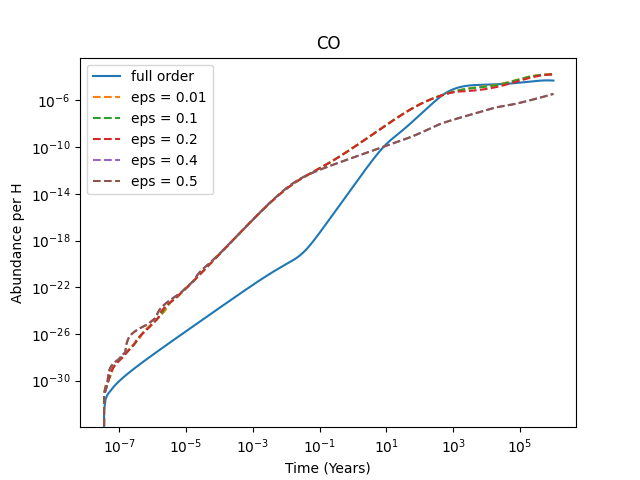
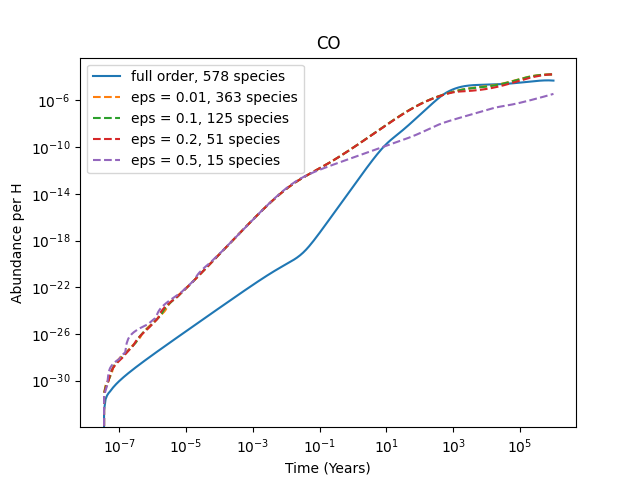
plotting

diff --git a/kida_drg/kida_reduced_solved/plots.py b/kida_drg/kida_reduced_solved/plots.py
@@ -4,7 +4,7 @@ from pathlib import Path
 
 YEAR = 3600 * 24 * 365.25
 folder_path = "/oden/cheng/Downloads/code/DRG/KIDApy_DRG/kida_drg/kida_reduced_solved"
-eps = ['0p01','0p1', '0p2', '0p5', '0p5']
+eps = ['0p01','0p1', '0p2','0p5']
 
 species = ["CO", "C+", "O+", "O"]
 
@@ -21,7 +21,7 @@ for s in species:
     plt.loglog()
     plt.xlabel("Time (Years)")
     plt.ylabel('Abundance per H')
-    plt.legend(["full order", "eps = 0.01", "eps = 0.1", "eps = 0.2", "eps = 0.4", "eps = 0.5"])
+    plt.legend(["full order, 578 species", "eps = 0.01, 363 species", "eps = 0.1, 125 species", "eps = 0.2, 51 species", "eps = 0.5, 15 species"])
     plt.title(f'{s}')
     folder = Path("/oden/cheng/Downloads/code/DRG/KIDApy_DRG/kida_drg/kida_reduced_solved")
     file = folder/f'{s} Concentration Comparison'

diff --git a/nelson_drg/nelson_reduced_solved/plots.py b/nelson_drg/nelson_reduced_solved/plots.py
@@ -21,7 +21,7 @@ for s in species:
     plt.loglog()
     plt.xlabel("Time (Years)")
     plt.ylabel('Abundance per H')
-    plt.legend(["full order", "eps = 0.1", "eps = 0.2", "eps = 0.7"])
+    plt.legend(["full order, 14 species", "eps = 0.1, 12 species", "eps = 0.2, 11 species", "eps = 0.7, 9 species"])
     plt.title(f'{s}')
     folder = Path("/oden/cheng/Downloads/code/DRG/KIDApy_DRG/nelson_drg/nelson_reduced_solved")
     file = folder/f'{s} Concentration Comparison'
